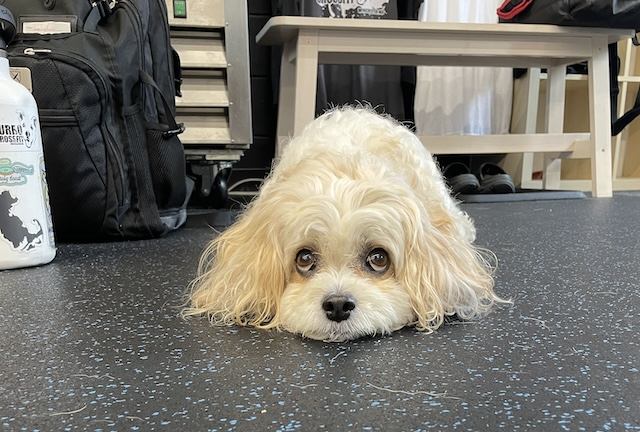
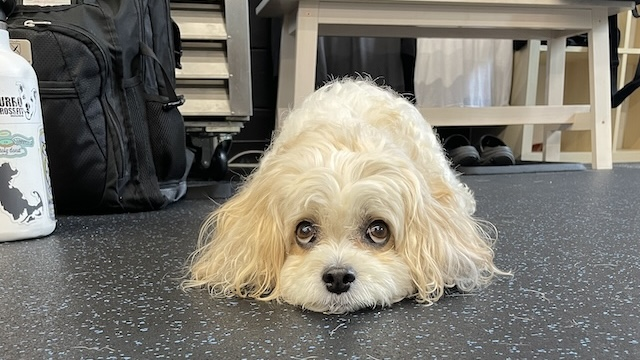
added images

diff --git a/About Me/index.html b/About Me/index.html
@@ -21,25 +21,44 @@
     <h1>About Me</h1>
     <div class="PersonalBckgrd">
         <h2>Personal Background: </h2>
-            <p> Lorem ipsum, dolor sit amet consectetur adipisicing elit. Odit quidem tempora ut asperiores mollitia amet, reprehenderit illo, sequi ullam magnam corrupti aperiam inventore suscipit earum nobis? Minus, obcaecati? Nesciunt, totam!
-                <!-- 1. dogs
-                2. crossfit - coaching/ working out - fitness, sports, nutrition  -->
+            <p> 
+                I like to think of myself as a dog and fitness enthusiast. I started CrossFit 5 years ago after many years doing traditional strength training. I started coaching because I wanted to share my knowledge and love for the sport with others. You can find my dog, Paisley, and I at our local CrossFit gym most mornings of the week. 
+                <br>
+                I got into nutrition in high school after attending a horticultural camp in Hawaii. Ever since then I have been recreating all of my favorte, not so healthy dishes, into nutrious but still delious meals. For example, I made a purple sweet potato crust pizza. Before I went to culinary school, My instagram page was dedicated to healthy recipies. Since graduating, it has transformed into a page filled with dessert. 
+                <br> 
+                I have always been interested in cooking and baking because of my grandfather who was a professional chef. He cooked for the queen of england and entered competitions where he would create sculptures out of lard. His work and sucess has always been an inspiration to me!
+                <br> 
+                Before deciding to go to culinary school, I spent a short time studying psychology, taking classes at William James and starting a masters program in clinical mental health counseling at Lesley University. Although, being a liscenced mental health professsional was not for me, I still use the knowledge i've gained in my everyday life. 
+                <br> 
+                My favorite things to do include CrossFit, cooking, baking, skiing, and traveling around the world. 
             </p>
         </div>
-        <div class="EdBckgrd">
-            <h2>Educational & Professional Background: </h2>
-                <p>I graduated from Boston University with a bachelor of science majoring in health sciences. I left college with a range of knowledge in many areas including personal health, public health, nutrition, fitness and how the body functions. I then studied psychology for a year which helped me improve my emotional intelligence (better understand myself and others) and empathy. After my experience at home during the pandemic, I switched directions and went to culinary school because of my passion for the cooking and pastry arts. I worked as a baker and pastry chef, but ultimately liked working as a cake decorator the most because of the creatively aspect. I want to feel like I am making a positive impact doing something I feel passionate about and that is where software engineering comes in. My journey into the field began when I enrolled in the software engineering program at General Assembly… 
-                </p>
-            </div>
+    <div class="EdBckgrd">
+        <h2>Educational & Professional Background: </h2>
+            <p>I graduated from Boston University with a bachelor of science majoring in health sciences. I left college with a range of knowledge in many areas including personal health, public health, nutrition, fitness and how the body functions. I then studied psychology for a year which helped me improve my emotional intelligence (better understand myself and others) and empathy. After my experience at home during the pandemic, I switched directions and went to culinary school because of my passion for cooking and pastry arts. I worked as a baker and pastry chef, but ultimately liked working as a cake decorator the most because of the creatively aspect. 
+            <br>
+            My main goal in life is to make a positive impact doing something I feel passionate about and that is where software engineering comes in. My journey into the field began when I enrolled in the software engineering program at General Assembly. With my education at general 
+            </p>
+    </div>
     <div class="space"></div>
     <div class="carousel-container">
         <div class="carousel-images"></div>
-                <img src="../Other Files/pais-bigeyes-gym.jpeg" alt="Jena" class="images">
-                <img src="../Other Files/paisFLfloat.jpeg" alt="Jena's dog, Paisley." class="images">
-                <img src="../Other Files/ItalyPhoto.JPG" alt="Jena at CrossFit jump rope photo / any of jorges photos." class="images">
-                <img src="../Other Files/paisFLpool.jpeg" alt="Jena's healthy cooking." class="images">
-                <img src="../Other Files/JPItalyView.JPG" alt="Jena's culinary school graduation." class="images">
-                <img src="../Other Files/flower.jpg" alt="Jena's work as a cake decorator." class="images">
+            <img src="../Other Files/JPItalyView.JPG" alt="Jena" class="images">
+            <img src="../Other Files/pais-bigeyes-gym.jpeg" alt="Jena's dog, Paisley." class="images">
+            <img src="../Other Files/OVHsquat.jpeg" alt="Jena at CrossFit." class="images">
+            <img src="../Other Files/pais gym.jpg" alt="Paisley at the gym" class="images">
+            <img src="../Other Files/Jena Crossfit backsquat coach.jpg" alt="Paisley at the gym" class="images">
+            <img src="../Other Files/cul school creampuff and eclair.jpeg" alt="cream puff and eclair" class="images">
+            <img src="../Other Files/Smores croissant open.jpg" alt="S'mores croissant inside" class="images">
+            <img src="../Other Files/smores croissant.jpg" alt="S'mores croissant" class="images">
+            <img src="../Other Files/pecan pie.jpg" alt="Chocolate pecan pie" class="images">
+            <img src="../Other Files/Papa sculpting.jpeg" alt="Jena's grandfather sculpting a figure out of lard." class="images">
+            <img src="../Other Files/cul grad fam.jpeg" alt="Jena's culinary school graduation." class="images">
+            <img src="../Other Files/cul grad certs and awards.jpeg" alt="Jena's culinary school awards and certificate." class="images">
+            <img src="../Other Files/J&M babyshower cake.jpeg" alt="Baby shower cake" class="images">
+            <img src="../Other Files/sunflower cupcake.jpeg" alt="Giant cupcake" class="images">
+            <img src="../Other Files/jena skiing.jpeg" alt="Jena skiing." class="images">
+
         </div>
         <div class="prev">
             <span class="lnr lnr-chevron-left"></span>
@@ -50,6 +69,7 @@
             <!-- from linearicons icon font -->
         </div>
     </div>
+    <div class="space2"></div>
     <footer> 
         <a href="https://github.com/jpantano30">Github</a>
         <a href="https://www.linkedin.com/in/jena-pantano-2693aa71/">LinkedIn</a>

diff --git a/About Me/styles.css b/About Me/styles.css
@@ -12,7 +12,7 @@
 body {  
     display: grid;
     grid-template-columns:  0.3fr 2.2fr 0.3fr;
-    grid-template-rows: 70px 100px auto auto 10px auto 50px;
+    grid-template-rows: 70px 100px auto auto 10px auto 20px 50px;
     grid-template-areas:
     "nav nav nav"
     "title title title"
@@ -20,6 +20,7 @@ body {
     ". EdBckgrd ."
     ". space ."
     "prev carousel nxt"
+    ". space2 ."
     "footer footer footer"; 
     width: 100%;
     height: 100%;
@@ -118,11 +119,12 @@ h1 {
     display: flex;
     justify-content: center;
     align-items: center;
-
+    width: 95%;
+    height: 95%;
 }
 .images {
     width: 95%;
-    height: 95%;
+    height: 100%;
     border-radius: 10px;
     display: none;
     border: 10px solid rgb(107, 139, 107);
@@ -177,7 +179,9 @@ h1 {
     box-shadow: 3px 3px 3px 3px peachpuff;
     color: var(--peach);
 }
-
+.space2{
+    grid-area: space2;
+}
 footer { 
     grid-area: footer; 
     background-color: var(--peach);

diff --git a/About Me/app.js b/About Me/app.js
@@ -3,31 +3,25 @@ const previous = document.querySelector('.prev');
 const images = document.getElementsByClassName('images');
 
 let currentImgIndex = 0;
-console.log('Initial index:', currentImgIndex)
 let previousImgIndex = 0;
 
 next.addEventListener('click', () => {
     previousImgIndex = currentImgIndex
     currentImgIndex++
     console.log(currentImgIndex)
-
     if (currentImgIndex >= images.length){
-        console.log('Too high of an index! Going to reset to 0!')
         currentImgIndex = 0;
     }
-
     images[previousImgIndex].style.display = 'none'
     images[currentImgIndex].style.display = 'block'
 });
-
 previous.addEventListener('click', () => {
     previousImgIndex = currentImgIndex
     currentImgIndex--
-
     if (currentImgIndex < 0){
         currentImgIndex = images.length - 1;
     }
-
     images[previousImgIndex].style.display = 'none'
     images[currentImgIndex].style.display = 'block'
 });
+
